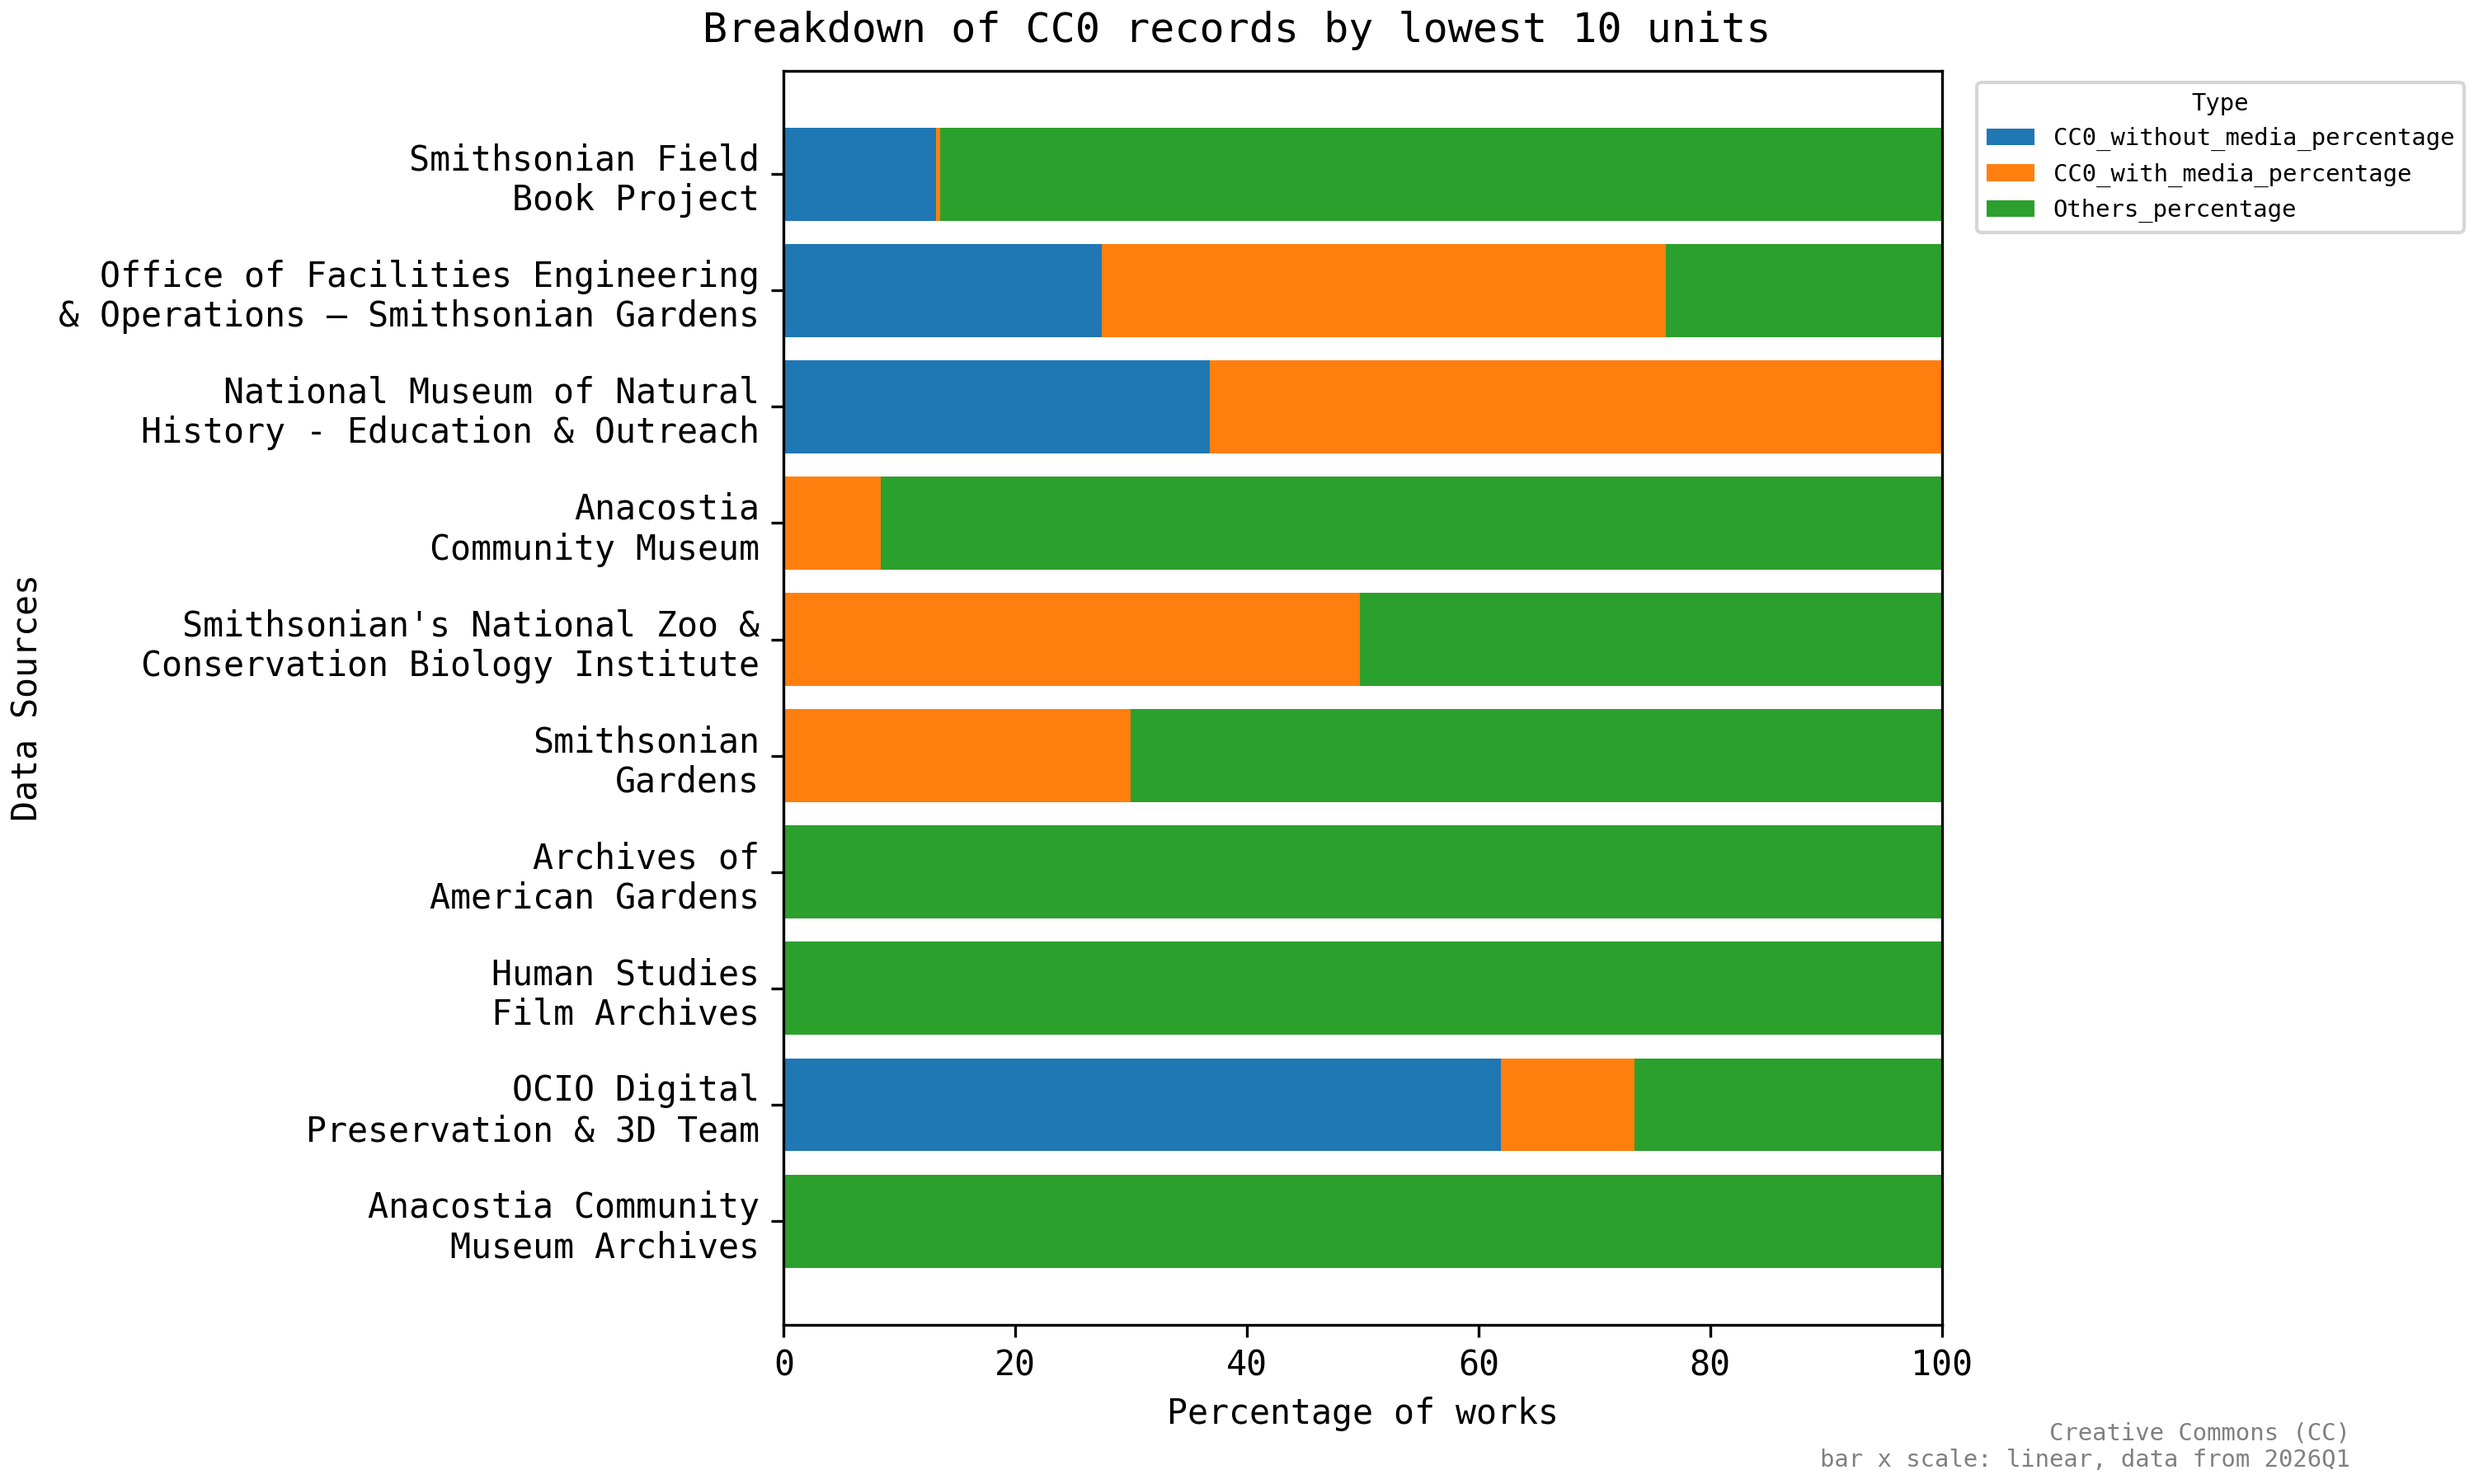
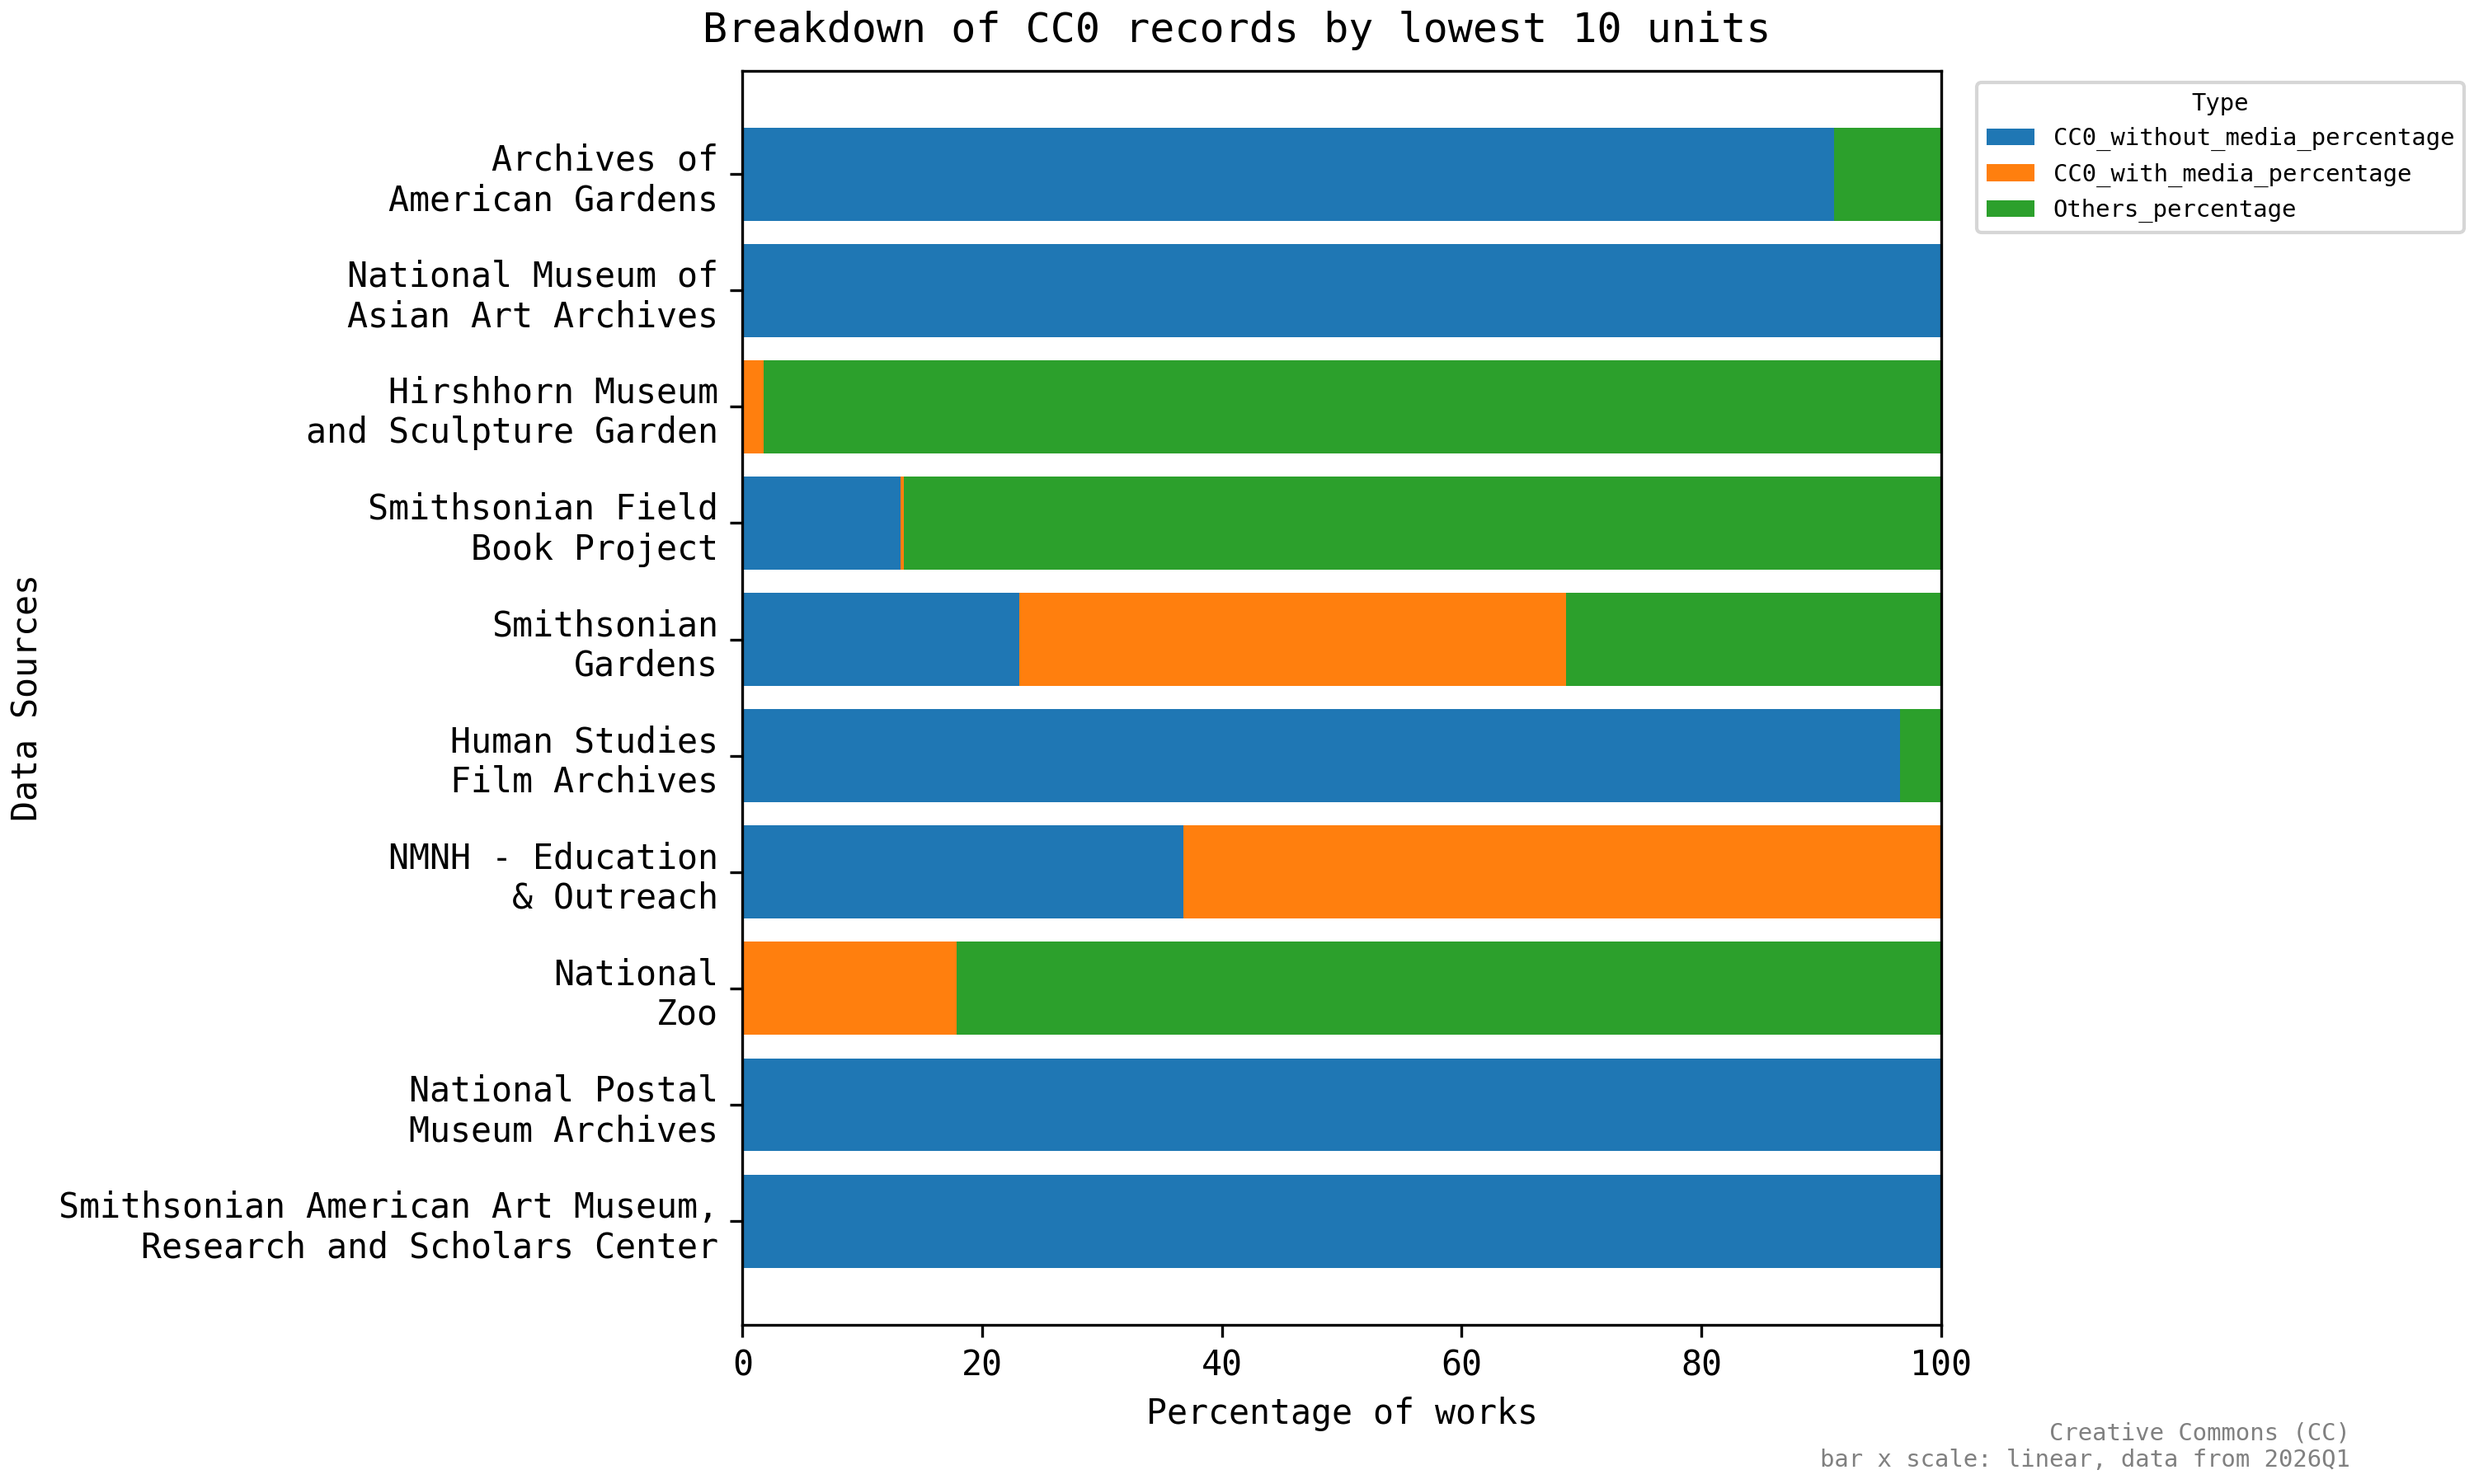
update smithsonian data from updated api

diff --git a/data/2026Q1/README.md b/data/2026Q1/README.md
@@ -180,7 +180,7 @@ Plots showing totals by different levels of restrictions. This shows the distrib
 ### Overview
 
 The Smithsonian Institute data returns the overall statistics of CC0 legal tool records. It serves as the main legal tool used by Smithsonian Institute.
-The results indicate a total record of 15,058,654 objects, with a breakdown of 14,395,246 objects without CC0 Media and 5,205,203 objects with CC0 Media, taking a percentage of 16.31% in each institute member. There are 38 unique units in the data representing museums, libraries, zoos and other institutions with a minimum of 57 objects.
+The results indicate a total record of 32,567,783 objects, with a breakdown of 17,586,024 objects without CC0 Media and 5,213,799 objects with CC0 Media, taking a percentage of 11.95% in each institute member. There are 39 unique units in the data representing museums, libraries, zoos and other institutions with a minimum of 410 objects.
 
 <!-- smithsonian_report.py entry end Overview -->
 
@@ -189,9 +189,9 @@ The results indicate a total record of 15,058,654 objects, with a breakdown of 1
 
 ### Totals by 10 Units
 
-![Plots showing totals by units. This shows the distribution of top 10 institute member across Smithsonian Institute with an average of 1,279,971.8 objects across the top 10 Institute members.](3-report/smithsonian_totals_by_top10_units.png)
+![Plots showing totals by units. This shows the distribution of top 10 institute member across Smithsonian Institute with an average of 2,326,055.1 objects across the top 10 Institute members.](3-report/smithsonian_totals_by_top10_units.png)
 
-Plots showing totals by units. This shows the distribution of top 10 institute member across Smithsonian Institute with an average of 1,279,971.8 objects across the top 10 Institute members.
+Plots showing totals by units. This shows the distribution of top 10 institute member across Smithsonian Institute with an average of 2,326,055.1 objects across the top 10 Institute members.
 
 <!-- smithsonian_report.py entry end Totals by 10 Units -->
 
@@ -204,7 +204,7 @@ Plots showing totals by units. This shows the distribution of top 10 institute m
 
 Plots showing totals by units.
 
-This shows the distribution of lowest 10 institute member across Smithsonian Institute with an average of 3264.5 objects across the lowest 10 institute members.
+This shows the distribution of lowest 10 institute member across Smithsonian Institute with an average of 8978.5 objects across the lowest 10 institute members.
 
 <!-- smithsonian_report.py entry end Totals by lowest 10 Units -->
 
